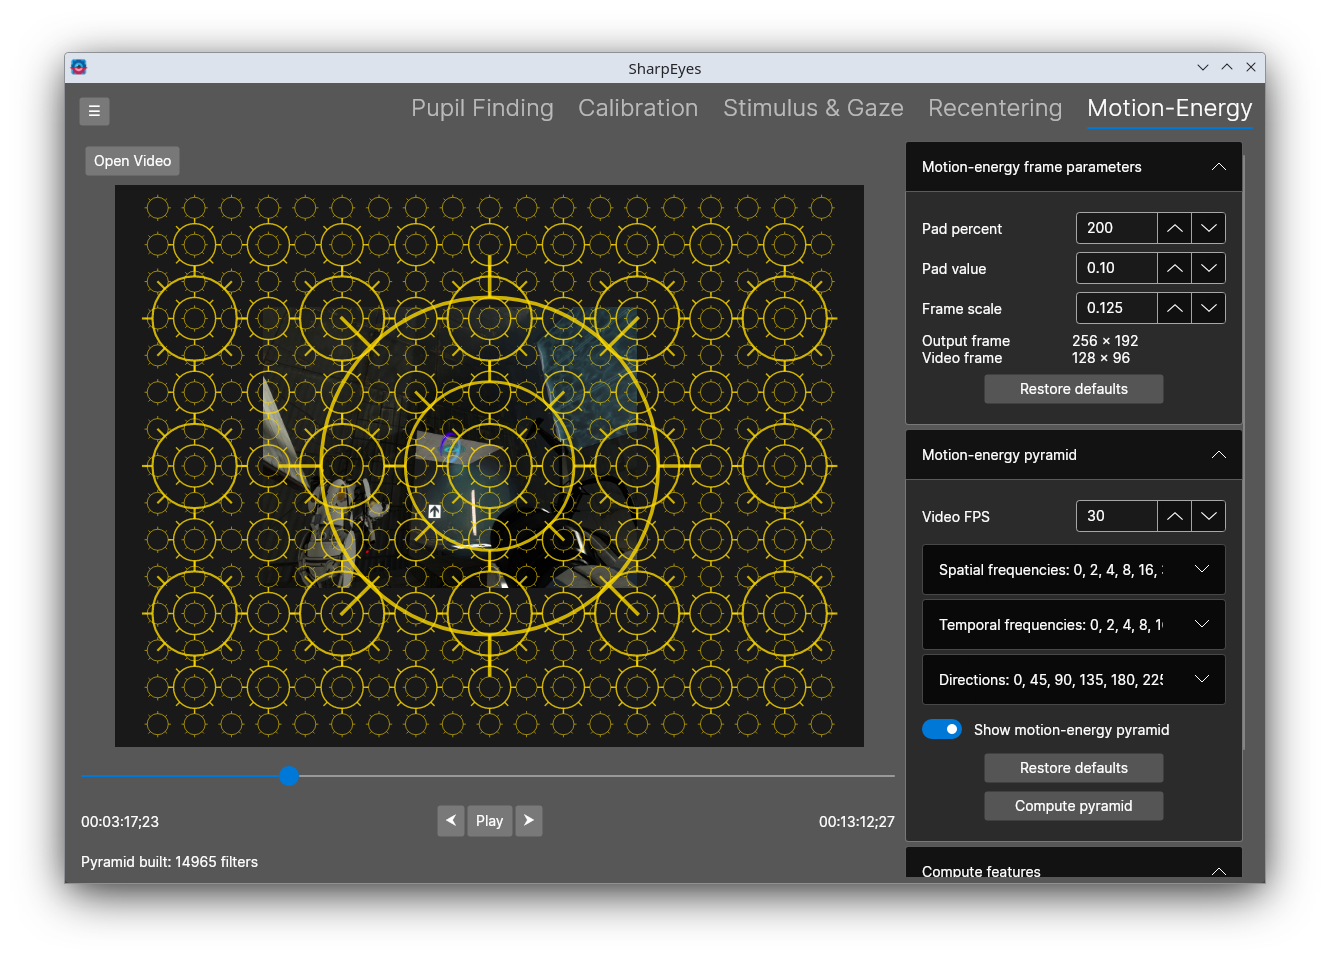
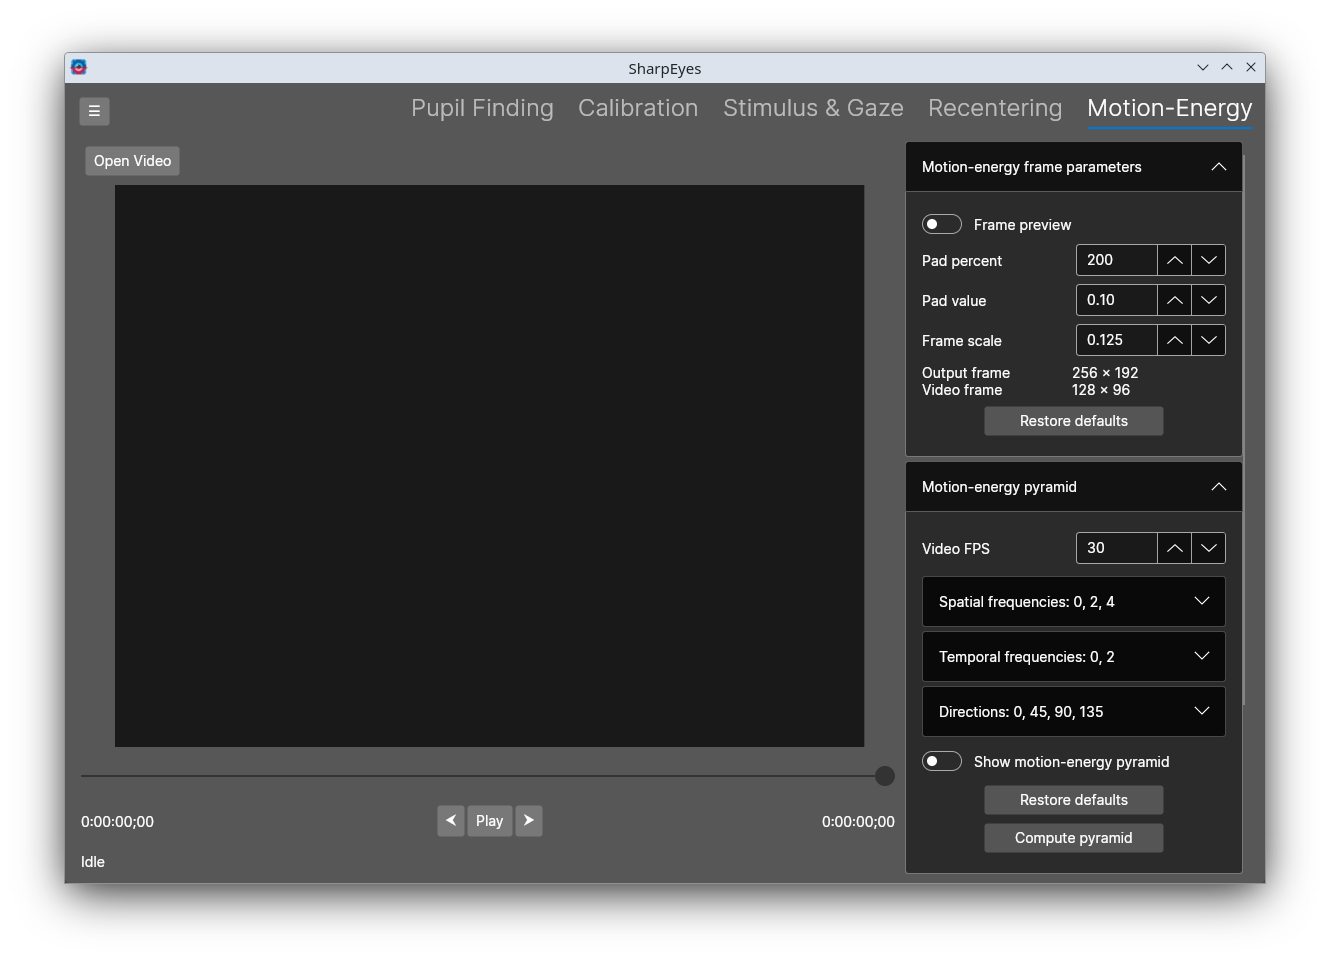
update docs

diff --git a/docs/getting started.md b/docs/getting started.md
@@ -16,6 +16,12 @@ A standalone executable is available. Linux may require additional system librar
 
 There are no prebuilt executable for macOS. To run on macOS, [build the project from source](./building.md).
 
+## Eyelink files
+
+<img src="assets/general%20settings.png" width="600" />
+
+SharpEyes can parse Eyelink files. The text files that you get out of the Eyelink coverter are out-of-the-box parsable. To be able to parse the EDF files directly, you need to provide your own copy of SR Research's edfapi library. It has to be either in the system library path, or you can set a path in the settings for SharpEyes to look for it.
+
 ## Python interop setup
 
 SharpEyes handles all eyetracking processing internally, but computing motion-energy features requires [PyMoten](https://github.com/gallantlab/pymoten) to be installed in a Python environment. SharpEyes will manage this for you. You can use either system python at a location you specify, a conda environment if you have conda installed, or have SharpEyes manage its own standalone python environment.

diff --git a/docs/workflow/motion energy.md b/docs/workflow/motion energy.md
@@ -8,6 +8,8 @@ The Motion-Energy tab computes motion-energy features from a video using [PyMote
 
 These control how the input video frames are prepared before being passed to PyMoten.
 
+By default the video is shown as a preview by sliding the original video around on the drawing canvas. Toggle the "preview" button on to preview the actual pixel values that the motion-energy code will see.
+
 | Control | Description |
 |---|---|
 | Pad percent | Amount of padding added around each frame as a percentage of the frame size. Must be at least 100 (i.e. the padded frame is at least the original size). Recentered/retinotopic videos must be padded, but a raw video can do without padding. |
